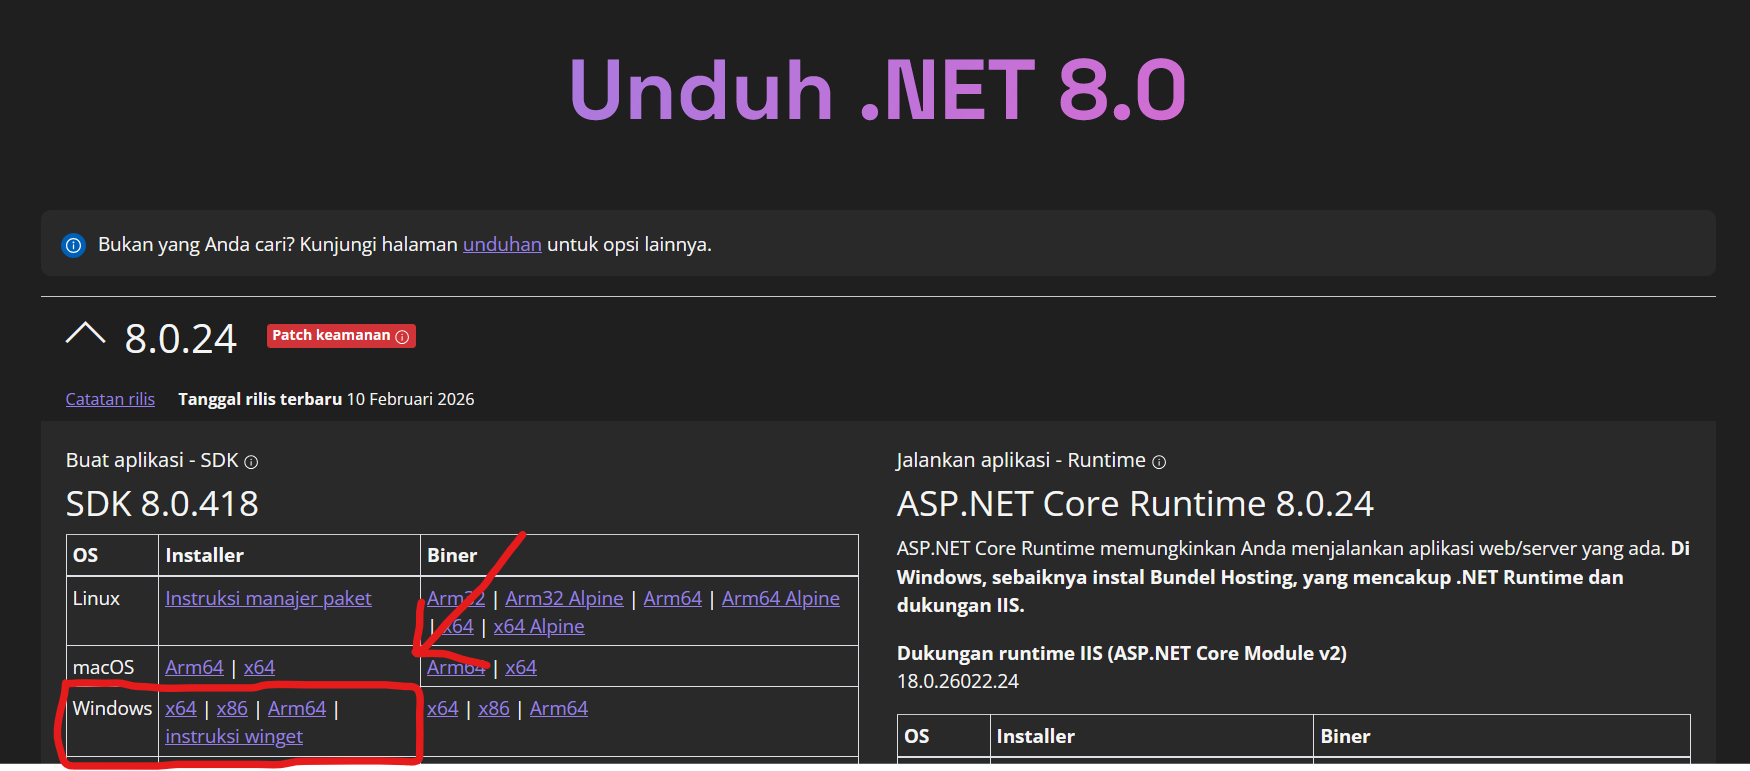
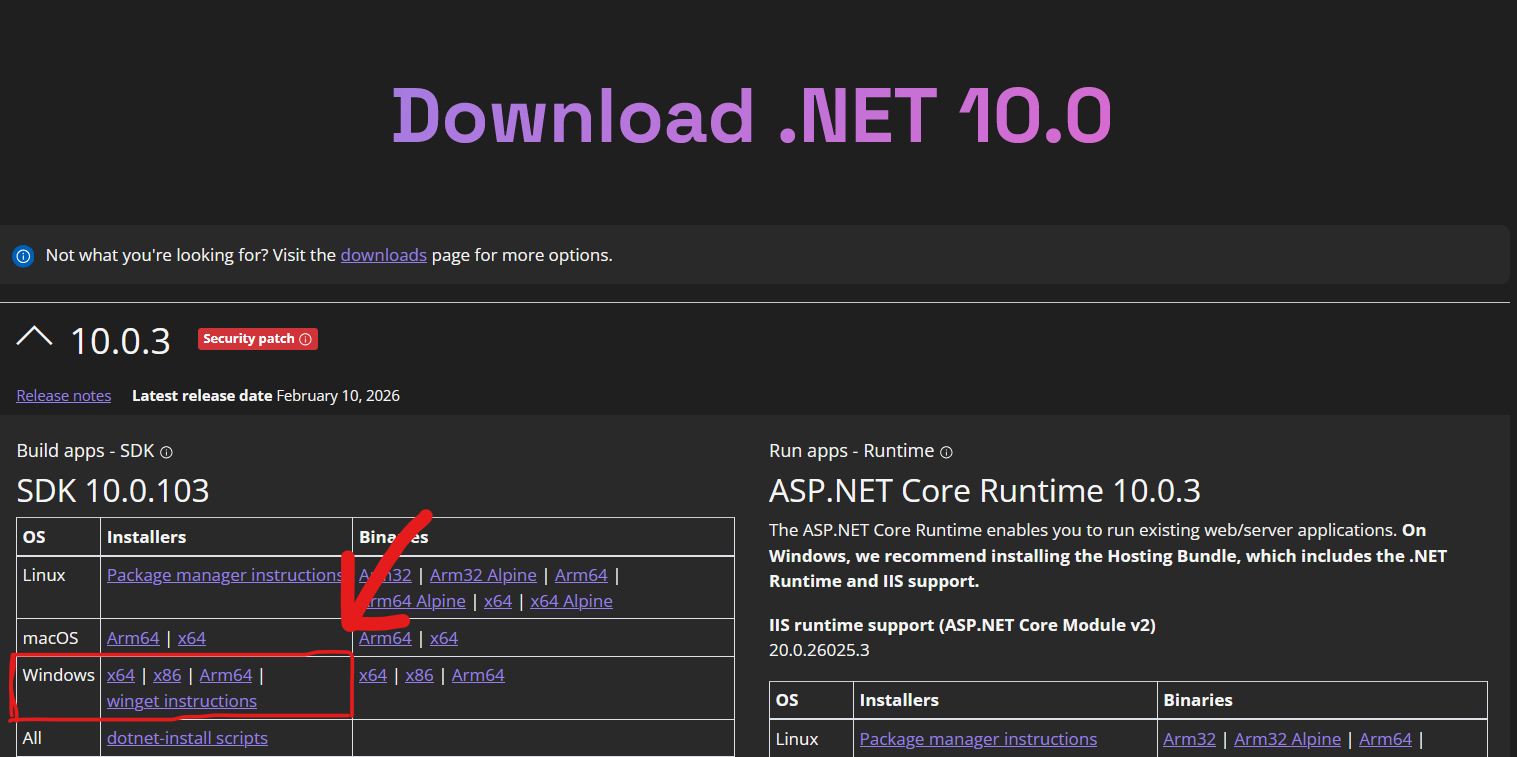
update net

diff --git a/index.html b/index.html
@@ -100,8 +100,8 @@
                             baru diperbolehkan).</p>
                     </li>
                     <li>
-                        <strong>Instal .NET 8.0 Desktop Runtime</strong>
-                        <p>Wajib menginstal <strong>.NET 8.0 Desktop Runtime</strong> agar launcher dapat dijalankan.
+                        <strong>Instal .NET 10.0 Desktop Runtime</strong>
+                        <p>Wajib menginstal <strong>.NET 10.0  Desktop Runtime</strong> agar launcher dapat dijalankan.
                         </p>
 
                         <!-- .NET DOWNLOAD IMAGE & LINK -->
@@ -112,7 +112,7 @@
                             <p style="margin-bottom: 10px; color: #ccc;">Pilih versi <strong>Windows x64 atau
                                     x86</strong>
                                 seperti pada gambar di atas.</p>
-                            <a href="https://dotnet.microsoft.com/id-id/download/dotnet/8.0" target="_blank"
+                            <a href="https://dotnet.microsoft.com/en-us/download/dotnet/10.0" target="_blank"
                                 class="btn-buy"
                                 style="display: inline-block; width: auto; padding: 10px 25px; background-color: #0078d4; color: white; text-decoration: none; border-radius: 20px; font-weight: bold;">Download
                                 Disini</a>
